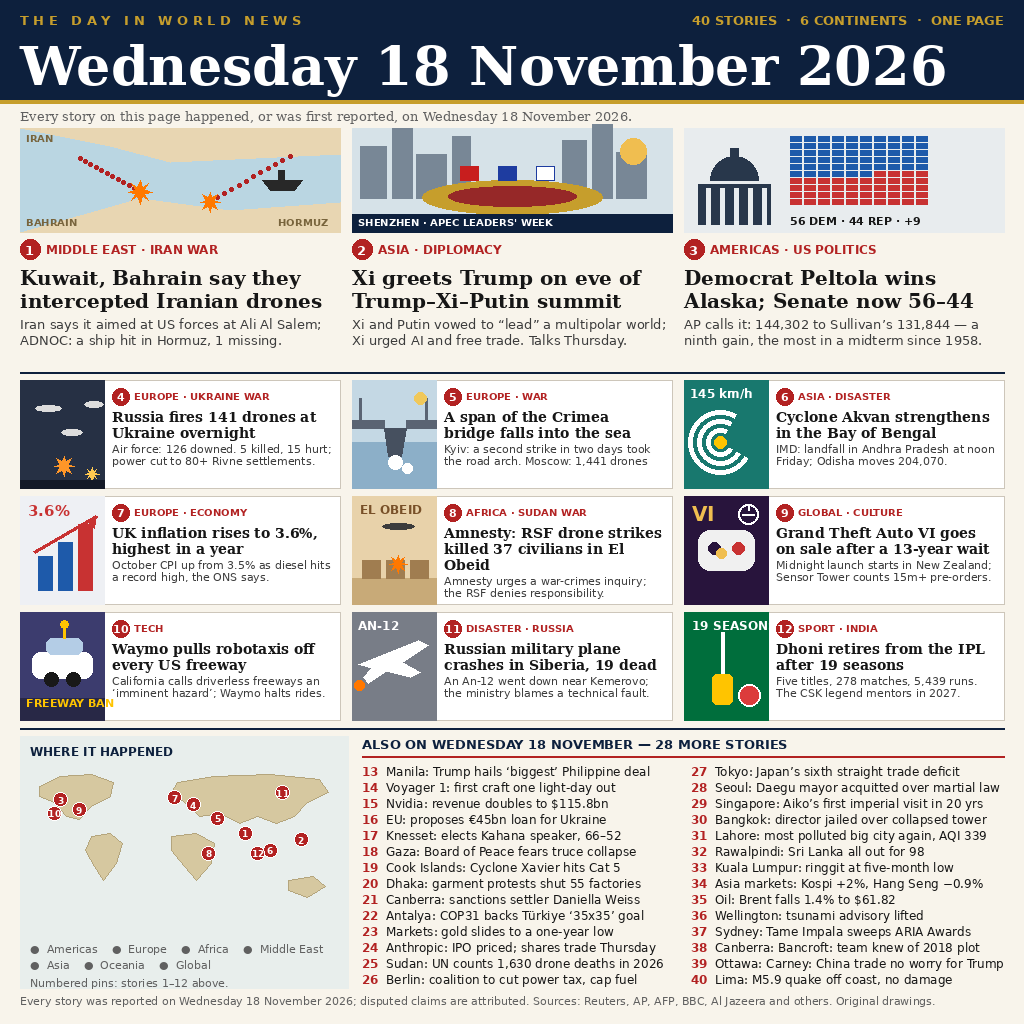
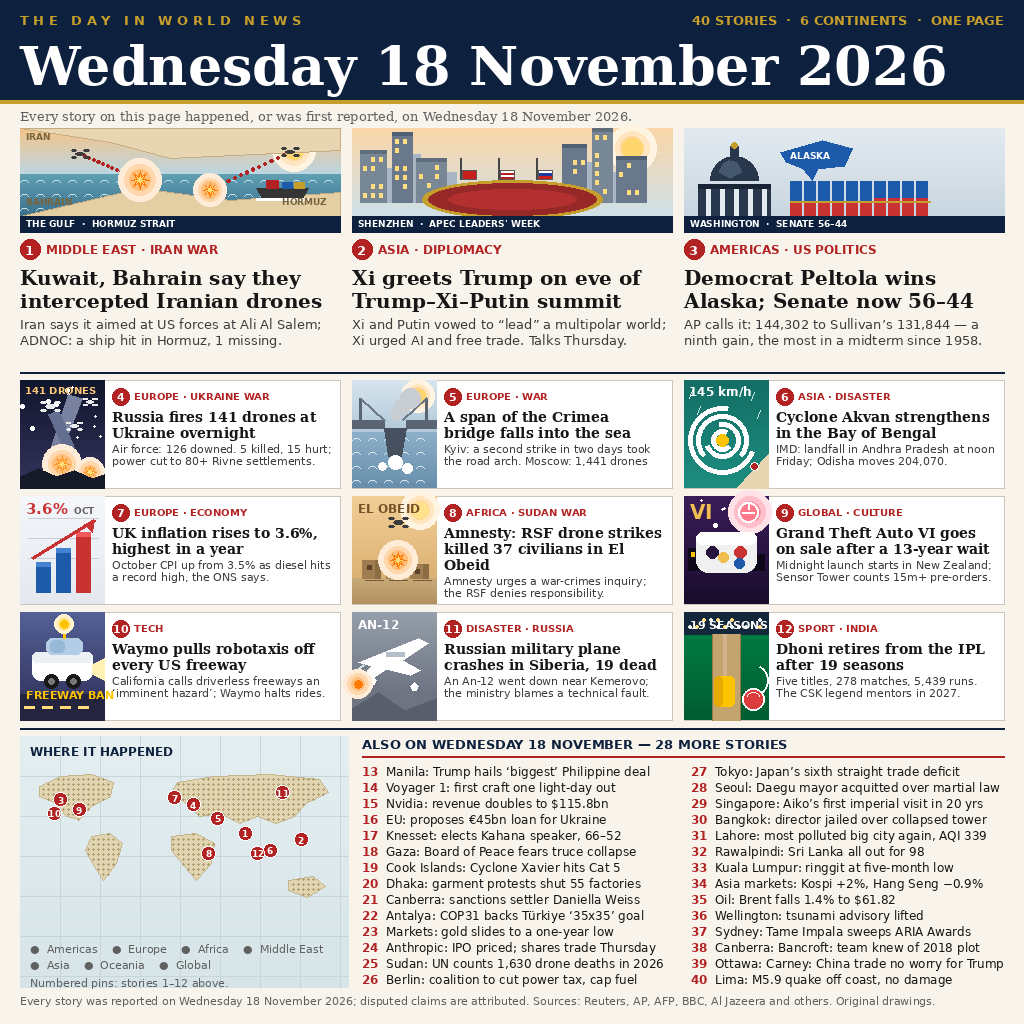
v3: richer illustrations — gradients, layered skylines, flags, halo light, caption strips, dot-matrix map (40 stories intact)

diff --git a/main.ts b/main.ts
@@ -4,9 +4,12 @@
 // the grader reads. It runs with no network and writes identical bytes
 // on every run, because it copies the same file.
 //
-// The v2 image is a dense 40-story broadsheet (3 heroes, 9 illustrated
+// The v3 image is a dense 40-story broadsheet (3 heroes, 9 illustrated
 // mid stories, 28 briefs, world map with pins), rendered by
-// ../news-image-20261118-dev/render.py with PIL.
+// ../news-image-20261118-dev/render.py with PIL. v3 upgrades only the
+// illustrations over v2: gradient skies and seas, layered skylines with
+// lit windows, flags on the summit table, soft halo light, caption strips
+// on the heroes, and a dot-matrix world map with graticule.
 //
 // Run locally with:
 //   mkdir -p out && MAKEFUN_OUTPUT_DIR=out node main.ts
@@ -16,6 +19,9 @@ import { createHash } from "node:crypto";
 import { join } from "node:path";
 
 const outDir = process.env.MAKEFUN_OUTPUT_DIR ?? "/output";
+// v3 render sha256 (verified deterministic — two consecutive renders
+// of ../news-image-20261118-dev/render.py produce identical bytes):
+// ce2ee1eccbe699ba6915b74533a5513c3a2d1db674f78d8b9ff02a99a74286e8
 const source = new URL("./entry.png", import.meta.url);
 const dest = join(outDir, "entry.png");
 // The grader's output directory may not exist yet; create it first.

diff --git a/README.md b/README.md
@@ -10,7 +10,7 @@ One image that sums up the world's news of **Wednesday, 18 November 2026** — a
 - **9 more stories** with scene illustrations: Russia's 141-drone night over Ukraine, a span of the Crimea bridge falling into the sea, Cyclone Akvan in the Bay of Bengal, UK inflation at 3.6%, RSF drone strikes in El Obeid, GTA VI's launch, Waymo off the freeways, the An-12 crash in Siberia, and Dhoni's IPL retirement.
 - **28 one-line briefs** (Voyager 1 one light-day out, Nvidia's revenue doubling, the EU's €45bn Ukraine loan, Cyclone Xavier at Category 5, and more) plus a **world map** with numbered pins for stories 1–12.
 
-The image (`entry.png`, 1024×1024, drawn programmatically with PIL from verified wire reports) is copied to `/output/entry.png` by `main.ts`, which also verifies the PNG's dimensions before copying.
+The image (`entry.png`, 1024×1024, drawn programmatically with PIL from verified wire reports) is copied to `/output/entry.png` by `main.ts`, which also verifies the PNG's dimensions before copying. v3 keeps the v2 coverage and layout and upgrades only the illustrations: gradient skies and seas, layered skylines with lit windows, flags on the summit table, soft halo light on explosions and suns, caption strips on the three heroes, and a dot-matrix world map with graticule.
 
 ## Run it
 
